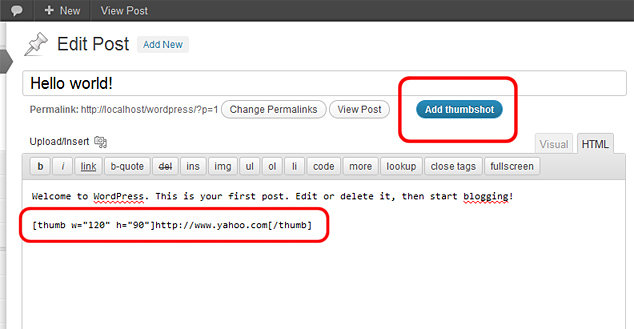
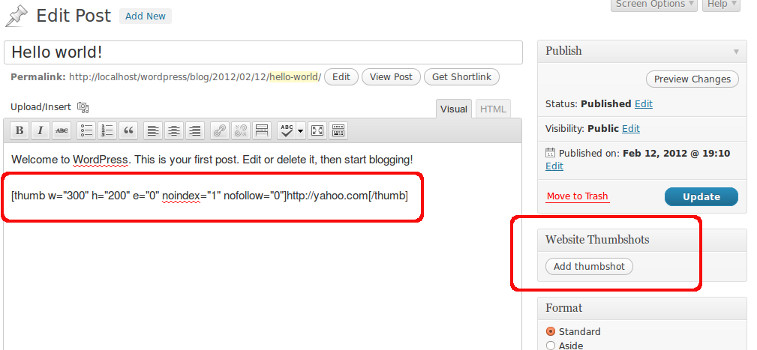
v1.4.5
git-svn-id: https://plugins.svn.wordpress.org/website-thumbshots/trunk@599577 b8457f37-d9ea-0310-8a92-e5e31aec5664

diff --git a/thumbshots.plugin.php b/thumbshots.plugin.php
@@ -5,7 +5,7 @@ Plugin URI: http://www.thumbshots.ru/en/website-thumbshots-wordpress-plugin
 Author: Thumbshots.RU Dev Team
 Author URI: http://www.thumbshots.ru/
 Description: This plugin uses the Thumbshots.RU API to replace special tags in posts with website screenshots.
-Version: 1.4.4
+Version: 1.4.5
 */
 
 /**
@@ -15,8 +15,8 @@ Version: 1.4.4
  * License: GPL version 3 or any later version
  * License info: {@link http://www.gnu.org/licenses/gpl.txt}
  *
- * Version: 1.4.4
- * Date: 10-Aug-2012
+ * Version: 1.4.5
+ * Date: 14-Sep-2012
  */
 
 // Load common functions
@@ -30,7 +30,7 @@ class thumbshots_plugin extends SonorthPluginHelper
 {
 	var $name = 'Website Thumbshots';
 	var $code = 'thumbshots_plugin';
-	var $version = '1.4.4';
+	var $version = '1.4.5';
 	var $help_url = 'http://www.thumbshots.ru/en/website-thumbshots-wordpress-plugin';
 
 	var $debug = 0;
@@ -325,10 +325,12 @@ all = http://domain.tld/image-general.jpg
 				'height'	=> false,
 				'display'	=> false,
 				'exit_page' => '',
+				'noindex'	=> NULL,
+				'nofollow'	=> NULL,
 			), $params );
 
 		// Get thumbshot image
-		$r = $this->get_image( $params['url'], $params['width'], $params['height'], $params['exit_page'] );
+		$r = $this->get_image( $params['url'], $params['width'], $params['height'], $params['exit_page'], $params['noindex'], $params['nofollow'] );
 
 		if( $params['display'] ) echo $r;
 
@@ -392,7 +394,7 @@ all = http://domain.tld/image-general.jpg
 	}
 
 
-	function get_image( $url, $w = false, $h = false, $exit_page = '' )
+	function get_image( $url, $w = false, $h = false, $exit_page = '', $noindex = NULL, $nofollow = NULL )
 	{
 		global $Thumbshot;
 
@@ -447,6 +449,18 @@ all = http://domain.tld/image-general.jpg
 			$Thumbshot->exit_page_url = '';
 		}
 
+		if( is_null($noindex) )
+		{
+			$noindex = $this->get_option('link_noindex');
+		}
+		$Thumbshot->link_noindex = $noindex;
+
+		if( is_null($nofollow) )
+		{
+			$nofollow = $this->get_option('link_nofollow');
+		}
+		$Thumbshot->link_nofollow = $nofollow;
+
 		// Get the thumbshot
 		return $Thumbshot->get();
 	}
@@ -454,8 +468,8 @@ all = http://domain.tld/image-general.jpg
 
 	function parse_shortcode( $p, $url )
 	{
-		$p = shortcode_atts( array('w'=>false,'h'=>false,'e'=>''), $p );
-		return $this->get_image( $url, $p['w'], $p['h'], $p['e'] );
+		$p = shortcode_atts( array('w'=>false, 'h'=>false, 'e'=>'', 'nofollow'=>NULL, 'noindex'=>NULL), $p );
+		return $this->get_image( $url, $p['w'], $p['h'], $p['e'], $p['noindex'], $p['nofollow'] );
 	}
 
 
@@ -532,11 +546,18 @@ all = http://domain.tld/image-general.jpg
 
 	function dbx_post_sidebar( $content )
 	{
+		echo '<div class="postbox" id="thumbshots_plugin_button" style="display:none"><div class="handlediv" title="Click to toggle"><br></div>
+				<h3 class="hndle"><span>'.$this->T_( $this->name ).'</span></h3>
+				<div class="inside" style="padding: 5px 0 3px 10px">
+					<span><a href="#" class="button thumbshots-plugin-button">'.$this->T_('Add thumbshot').'</a></span>
+				</div>
+			</div>';
+
 		echo '<script type="text/javascript">
 			//<![CDATA[
 			jQuery(function() {
-				var thumbshots_plugin_button = "<span><a style=\"margin-left: 30px\" href=\"#\" class=\"button-primary thumbshots-plugin-button\">'.$this->T_('Add thumbshot').'</a></span>";
-				jQuery( thumbshots_plugin_button ).appendTo( jQuery("#edit-slug-box") );
+				jQuery("#thumbshots_plugin_button").insertAfter( jQuery("#submitdiv") );
+				jQuery("#thumbshots_plugin_button").show();
 
 				jQuery(".thumbshots-plugin-button").click(function(event) {
 					event.preventDefault();
@@ -548,24 +569,34 @@ all = http://domain.tld/image-general.jpg
 					var t_width = prompt( "'.$this->T_('Thumbshot width').'", "'.$this->get_option('width').'" );
 					var t_height = prompt( "'.$this->T_('Thumbshot height').'", "'.$this->get_option('height').'" );
 					var t_url2 = prompt( "'.$this->T_('Link thumbshot to URL (optional)').'", "http://" );
-					var t_ext = confirm( "'.$this->T_('Display an exit page if thumbshot is linked to URL').'" );
+					var t_ext = confirm( "'.$this->T_('Display an exit page if thumbshot is linked to URL').'?" );
+					var t_noindex = confirm( "'.$this->T_('Add rel=\"noindex\" to thumbshot link').'?" );
+					var t_nofollow = confirm( "'.$this->T_('Add rel=\"nofollow\" to thumbshot link').'?" );
 
 					if( t_url2 !== null && t_url2.length > 7) t_url = t_url + "|" + t_url2;
 
 					if(t_ext) t_ext = 1;
 					else t_ext = 0;
 
+					if(t_noindex) t_noindex = 1;
+					else t_noindex = 0;
+
+					if(t_nofollow) t_nofollow = 1;
+					else t_nofollow = 0;
+
 					var code = "[thumb";
 					if(t_width) {
 						t_width = t_width.replace(/[^0-9]*/g, "");
-						if( t_width !="" ) code = code + " w=\"" + t_width + "\"";
+						if( t_width !="" ) code += " w=\"" + t_width + "\"";
 					}
 					if(t_height) {
 						t_height = t_height.replace(/[^0-9]*/g, "");
-						if( t_height !="" ) code = code + " h=\"" + t_height + "\"";
+						if( t_height !="" ) code += " h=\"" + t_height + "\"";
 					}
-					code = code + " e=\"" + t_ext + "\"";
-					code = code + "]" + t_url + "[/thumb]";
+					code += " e=\"" + t_ext + "\"";
+					code += " noindex=\"" + t_noindex + "\"";
+					code += " nofollow=\"" + t_nofollow + "\"";
+					code += "]" + t_url + "[/thumb]";
 
 					tinyMCE.execCommand("mceInsertContent",false,("<br />"+code+"<br />"));
 					jQuery("#content").val( jQuery("#content").val() + ("\n" + code + "\n") );

diff --git a/inc/_thumbshots.class.php b/inc/_thumbshots.class.php
@@ -8,8 +8,8 @@
  *
  * API specification and examples: {@link http://thumbshots.ru/api}
  *
- * Version: 1.7.5
- * Date: 10-Aug-2012
+ * Version: 1.7.6
+ * Date: 14-Sep-2012
  *
  */
 if( !defined('THUMBSHOT_INIT') ) die( 'Please, do not access this page directly.' );
@@ -90,7 +90,7 @@ class Thumbshot
 
 	// Internal
 	protected $_name = 'Thumbshots PHP';
-	protected $_version = '1.7.5';
+	protected $_version = '1.7.6';
 	protected $_thumbnails_path_status = false;
 	protected $_error_detected = false;
 	protected $_error_code = false;
@@ -220,10 +220,10 @@ class Thumbshot
 						$attr = array();
 						if( $this->link_noindex ) $attr[] = 'noindex';
 						if( $this->link_nofollow ) $attr[] = 'nofollow';
-						$rel = 'rel="'.implode( ' ', $attr ).'"';
+						$rel = ' rel="'.implode( ' ', $attr ).'"';
 					}
 
-					$output = '<a href="'.$this->link_url.'" '.$rel.' target="_blank">'.$output.'</a>';
+					$output = '<a href="'.$this->link_url.'"'.$rel.' target="_blank">'.$output.'</a>';
 				}
 
 				if( $this->display_reload_link )
